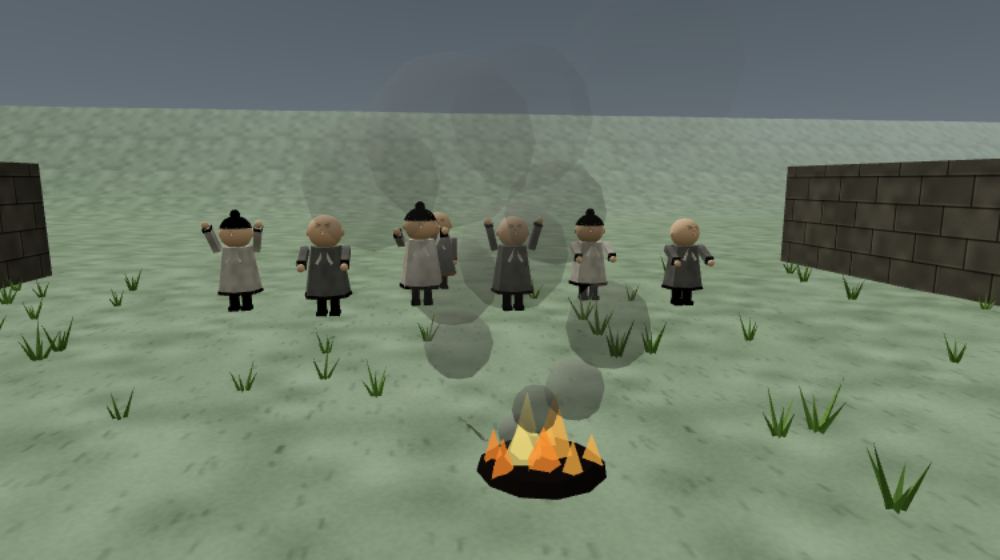
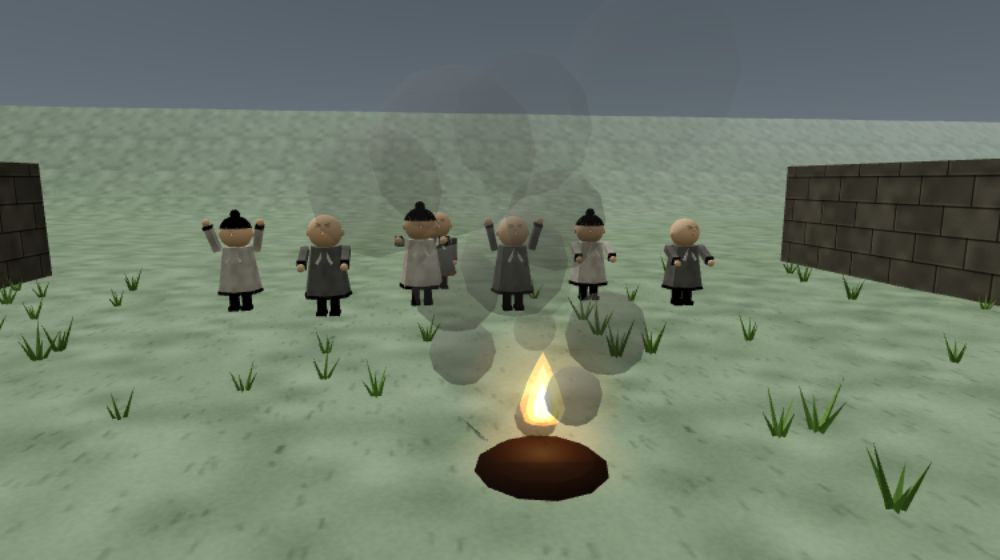
물건 들기 자연스러운 동작(D-18, 모든 장 공통): core/people.js setCarry(두 팔로 안기·굽힌 팔에 얹어 끼기·어깨에 메기) — 든 물건이 손에 붙고 팔이 받치며 걸을 때 물건과 함께 살짝 흔들림, 내려놓으면 팔이 돌아옴. 3장 쇠가죽은 어깨에, 4장 노비 문서는 팔에, 놀이 건네받기 꾸러미는 두 팔로, 나누기 놀이는 머리 위 글을 두고 손에 종이. 4장 충주성 사진을 공용 불로 다시 찍음
Claude-Session: https://claude.ai/code/session_014LB5kAoBxkJ3uzw5BHNRPe

diff --git a/tests/carry.test.js b/tests/carry.test.js
@@ -1,0 +1,94 @@
+// D-18: 물건을 들고 다닐 때 자연스러운 동작(모든 장 공통). 든 물건은 손 가까이에 붙고, 팔이 받치는 자세가 되며,
+// 걸을 때 팔을 크게 흔들지 않고 물건과 함께 살짝 흔들린다. 내려놓으면 팔이 원래대로.
+import * as THREE from 'three';
+import { test, eq, ok } from './harness.js';
+import { makePerson, setCarry, animateWalk } from '../core/people.js';
+import { LOOKS } from '../content/characters.js';
+import { touchSetup } from './bot.js';
+
+const box = () => new THREE.Mesh(new THREE.BoxGeometry(0.5, 0.2, 0.4), new THREE.MeshBasicMaterial());
+const handsNear = (p, obj) => {
+  p.updateMatrixWorld(true);
+  const o = new THREE.Vector3(); obj.getWorldPosition(o);
+  return p.userData.arms.map(a => { const h = new THREE.Vector3(); a.getObjectByName('hand').getWorldPosition(h); return h.distanceTo(o); });
+};
+
+test('carry: 두 팔로 안으면 물건이 두 손 사이에 붙고, 걸어도 팔을 휘젓지 않고 살짝 흔들리며, 내려놓으면 팔이 돌아온다', () => {
+  const p = makePerson(LOOKS.villager, { track: false }), b = box();
+  setCarry(p, b, 'arms');
+  eq(b.parent, p);
+  const u = p.userData;
+  ok(u.arms.every(a => a.rotation.x < -0.6), 'both arms forward');
+  ok(handsNear(p, b).every(d => d < 0.6), `hands at the object ${handsNear(p, b).map(d => d.toFixed(2))}`);
+  const ys = [], diffs = [];
+  for (let i = 0; i < 40; i++) { animateWalk(p, true, 0.05); ys.push(b.position.y); diffs.push(Math.abs(u.arms[0].rotation.x - u.arms[1].rotation.x)); }
+  ok(Math.max(...diffs) < 0.25, 'arms do not swing opposite');
+  const sway = Math.max(...ys) - Math.min(...ys); ok(sway > 0.005 && sway < 0.12, `gentle sway ${sway.toFixed(3)}`);
+  ok(Math.max(...u.legs.map(l => Math.abs(l.rotation.x))) > 0.3, 'legs still walk');
+  setCarry(p, null);
+  ok(!b.parent, 'put down');
+  ok(u.arms.every(a => Math.abs(a.rotation.x) < 0.01 && Math.abs(a.rotation.z) < 0.01), 'arms back');
+});
+
+test('carry: 옆구리에 끼거나 어깨에 메면 그쪽 손이 물건을 잡고, 다른 팔은 걸을 때 흔든다', () => {
+  for (const style of ['side', 'shoulder']) {
+    const p = makePerson(LOOKS.villager, { track: false }), b = box();
+    setCarry(p, b, style);
+    const d = handsNear(p, b);
+    ok(d[1] < 0.6, `${style}: holding hand ${d[1].toFixed(2)}`);
+    const free = [];
+    for (let i = 0; i < 40; i++) { animateWalk(p, true, 0.05); free.push(p.userData.arms[0].rotation.x); }
+    ok(Math.max(...free) - Math.min(...free) > 0.3, `${style}: the other arm swings`);
+  }
+});
+
+test('carry: 크기가 다른 학생(아이)도 물건이 손에 붙는다', () => {
+  const p = makePerson(LOOKS.villager, { track: false }); p.scale.setScalar(0.8);
+  const b = box(); setCarry(p, b, 'arms');
+  ok(handsNear(p, b).every(d => d < 0.5));
+});
+
+test('carry: 고려 4장 노비 문서를 받으면 옆구리에 끼고, 더미에 놓으면 손을 비운다', async () => {
+  const { default: ch4, setupChungju, carryDocuments } = await import('../chapters/ch4/chapter.js');
+  const s = touchSetup({});
+  try {
+    const sc = ch4.buildScene(s.w, s.ctx);
+    setupChungju(s.ctx);
+    carryDocuments(s.ctx);
+    const g1 = s.w.getGoal(); s.w.player.position.set(g1.x, 0, g1.z); s.w.step(0.05, { x: 0, z: 0 });
+    const c = s.w.player.userData.carry;
+    ok(c && c.obj === sc.bundles[0], 'carrying the bundle');
+    ok(handsNear(s.w.player, sc.bundles[0])[1] < 0.7, 'in hand');
+    const g2 = s.w.getGoal(); s.w.player.position.set(g2.x, 0, g2.z); s.w.step(0.05, { x: 0, z: 0 });
+    ok(!s.w.player.userData.carry, 'hands free after placing');
+  } finally { s.done(); }
+});
+
+test('carry: 고려 3장 쇠가죽을 주우면 어깨에 메고 다니다가 둑에서 내려놓는다', async () => {
+  const { default: ch3, collectHides } = await import('../chapters/ch3/chapter.js');
+  const s = touchSetup({});
+  try {
+    const sc = ch3.buildScene(s.w, s.ctx);
+    const done = collectHides(s.ctx);
+    const h = sc.hides[0]; s.w.player.position.set(h.x, 0, h.z); s.w.step(0.05, { x: 0, z: 0 });
+    ok(s.w.player.userData.carry, 'carrying hides after the first one');
+    for (const k of sc.hides) { s.w.player.position.set(k.x, 0, k.z); s.w.step(0.05, { x: 0, z: 0 }); }
+    s.w.player.position.set(sc.dam.x, 0, sc.dam.z); s.w.step(0.05, { x: 0, z: 0 });
+    await done;
+    ok(!s.w.player.userData.carry, 'put down at the dam');
+  } finally { s.done(); }
+});
+
+test('carry: 건네받기(give)로 받은 꾸러미는 두 팔로 안고 다닌다', async () => {
+  const { PLAY } = await import('../chapters/kit/play.js');
+  const s = touchSetup({});
+  try {
+    const arena = { origin: [300, 0], ground: 'earth', bounds: { x0: -20, x1: 20, z0: -20, z1: 20 } };
+    PLAY.drive(s.ctx, { arena, from: [0, 10], seconds: 60, route: [{ x: 0, z: 0, give: true }, { x: 0, z: -10 }] }, false);
+    s.w.player.position.set(300, 0, 0);
+    for (let i = 0; i < 30; i++) s.w.step(1 / 20, { x: 0, z: 0 });
+    const c = s.w.player.userData.carry;
+    ok(c && c.style === 'arms', 'held in both arms');
+    ok(handsNear(s.w.player, c.obj).every(d => d < 0.7), 'at the hands');
+  } finally { s.done(); }
+});

diff --git a/chapters/kit/play.js b/chapters/kit/play.js
@@ -24,7 +24,7 @@ import * as THREE from 'three';
 import { BUILD, addFootprint, taegukgiTexture, addNature } from './town.js';
 import { bakeStatic } from './buildings.js';
 import { terrainField, terrainMesh, hillColorFor } from './terrain.js';
-import { mat, makePerson } from '../../core/people.js';
+import { mat, makePerson, setCarry } from '../../core/people.js';
 import { createTapTargets } from '../../core/minigame.js';
 import { MAP_OUTLINE } from '../../core/screens.js';
 import { LOOKS } from '../../content/characters.js';
@@ -352,7 +352,7 @@ export function drive(ctx, part, easy) {
   show();
   // 건네받기: give가 있는 곳에 닿으면 그곳 사람이 꾸러미를 건네고, 학생이 두 손에 들고 다닌다. hand가 있는 곳에서는 하나씩 건넨다
   let carried = null;
-  s.cleanup(() => { if (carried) world.player.remove(carried); });
+  s.cleanup(() => { if (carried) setCarry(world.player, null); });
   const giveBundle = r => {
     const b = new THREE.Group(); for (let k = 0; k < 5; k++) add(b, box(0.7, 0.07, 0.5), k % 2 ? 0xf2ede0 : 0xe6dfcc, 0, k * 0.075, 0); add(b, box(0.08, 0.42, 0.52), 0x8a6a48, 0, 0.18, 0);
     const from = r.person ? r.person.position.clone().add(new THREE.Vector3(0, 1.3, 0)) : new THREE.Vector3(r.x, 1.3, r.z);
@@ -360,9 +360,9 @@ export function drive(ctx, part, easy) {
     const to = new THREE.Vector3(); let k = 0;
     const off = world.onUpdate(dt => { // 사람 손에서 학생 손으로 날아온다
       k = Math.min(1, k + dt / 0.6);
-      world.player.localToWorld(to.set(0.42, 1.35, 0.4)); g.worldToLocal(to);
+      world.player.localToWorld(to.set(0, 1.22, 0.6)); g.worldToLocal(to);
       b.position.lerpVectors(from, to, k); b.position.y += Math.sin(k * Math.PI) * 0.6;
-      if (k >= 1) { off(); g.remove(b); const ks = world.player.scale.y || 1; b.position.set(0.42 / ks, 1.35 / ks, 0.4 / ks); b.scale.setScalar(1.3 / ks); world.player.add(b); carried = b; } // 옆구리에 끼고(뒤에서도 보이게)
+      if (k >= 1) { off(); g.remove(b); b.scale.setScalar(1.3); setCarry(world.player, b, 'arms'); carried = b; } // 두 팔로 안고 다닌다(D-18, 꾸러미가 몸보다 넓어 뒤에서도 보인다)
     });
     s.cleanup(off);
   };
@@ -510,19 +510,21 @@ export function deliver(ctx, part, easy) {
     return { ...b, disc, pos: s.at(b.x, b.z) };
   });
   let i = 0, held = null;
+  const sheet = new THREE.Mesh(new THREE.BoxGeometry(0.62, 0.04, 0.44), mat(0xf2ede0)); sheet.rotation.x = -0.5; // 손에 든 종이
   const missedCards = new Set();
   const hold = () => {
     if (held) world.player.remove(held);
     const c = part.cards[i];
     held = c ? labelSprite(c.text, { bg: 'rgba(255,250,240,0.97)', border: '#d9a441' }) : null;
     if (held) { held.position.set(0, 3.1 / (world.player.scale.y || 1), 0); held.scale.divideScalar(world.player.scale.x || 1); world.player.add(held); } // 키가 작아도 글은 같은 크기·높이
+    setCarry(world.player, c ? sheet : null, 'arms'); // 머리 위 글은 읽기용으로 두고, 손에는 종이 한 장을 든다(D-18)
     ctx.hud.setCounter(`${part.counter || '가져다 놓은 것'} ${i}/${part.cards.length}`);
     const target = c && bins.find(b => b.id === c.bin);
     ctx.testHooks.walkTo = target ? target.pos : null;
     world.setGoal((easy || missedCards.has(c)) && target ? target.pos : null); // 한 번 틀린 것은 화살표가 맞는 곳을 알려 준다
   };
   hold();
-  s.cleanup(() => { if (held) world.player.remove(held); });
+  s.cleanup(() => { if (held) world.player.remove(held); setCarry(world.player, null); });
   // 놓은 뒤에는 처음 자리로 돌아가 다음 것을 든다
   const home = () => { if (part.from) { const a = s.at(...part.from); place(world, [a.x, a.z], part.face ?? Math.PI); } };
   // 지나가다 밟은 것은 놓지 않는다: 원 안에서 멈춰 잠깐(DWELL초) 서 있어야 놓인다. 원은 서 있는 동안 점점 밝아진다.

diff --git a/core/people.js b/core/people.js
@@ -218,8 +218,41 @@ export function gaitPose(person, ph, k = 1) {
   const k0 = u.legs[0].userData.knee, k1 = u.legs[1].userData.knee;
   if (k0) k0.rotation.x = (0.1 + Math.max(0, -c) * 1.1) * k;
   if (k1) k1.rotation.x = (0.1 + Math.max(0, c) * 1.1) * k;
-  if (u.arms) { u.arms[0].rotation.x = -s * 0.65; u.arms[1].rotation.x = s * 0.65; }
+  if (u.carry) carryPose(person, ph, k); // 물건을 들었으면 팔은 물건을 받치고, 물건과 함께 살짝 흔들린다(D-18)
+  else if (u.arms) { u.arms[0].rotation.x = -s * 0.65; u.arms[1].rotation.x = s * 0.65; }
   return Math.abs(c) * 0.08 * k;
+}
+
+// 물건 들기(D-18, 모든 장 공통): 든 물건을 몸에 붙이고 팔이 받치는 자세가 된다. style:
+//   'arms'(두 팔로 가슴 앞에 안기: 꾸러미·판) · 'side'(굽힌 오른팔 위에 얹어 옆구리에 끼기: 두루마리) · 'shoulder'(오른손으로 어깨에 멘 것을 잡기: 쇠가죽 묶음)
+// at: 물건 자리(몸 기준), arms: [왼팔, 오른팔]의 [앞뒤, 안팎] 각도(null이면 걸을 때 흔드는 팔)
+const CARRY = {
+  arms: { at: [0, 1.22, 0.6], arms: [[-1.0, 0.33], [-1.0, -0.33]] },
+  side: { at: [0.56, 1.42, 0.45], arms: [null, [-1.1, 0.05]] },
+  shoulder: { at: [0.48, 2.0, -0.08], arms: [null, [-2.9, -0.15]] },
+};
+export function carryPose(person, ph = 0, k = 0) {
+  const u = person.userData, c = u.carry; if (!c || !u.arms) return;
+  const P = CARRY[c.style] || CARRY.arms, sway = Math.sin(ph * 2) * 0.04 * k;
+  P.arms.forEach((a, i) => {
+    if (a) u.arms[i].rotation.set(a[0] + sway, 0, a[1]);
+    else u.arms[i].rotation.set(-Math.sin(ph) * k * 0.65 * (i ? -1 : 1), 0, 0); // 빈 팔은 걸음에 맞춰 흔든다
+  });
+  c.obj.position.set(P.at[0], P.at[1] + Math.abs(Math.cos(ph)) * 0.035 * k, P.at[2]);
+  c.obj.rotation.z = c.rz + Math.sin(ph) * 0.05 * k;
+}
+// 물건을 든다(obj) / 내려놓는다(null). 들던 것이 있으면 먼저 내려놓는다. 물건은 사람의 자식이 되어 함께 움직인다
+export function setCarry(person, obj, style = 'arms') {
+  const u = person.userData, prev = u.carry;
+  if (prev && prev.obj !== obj && prev.obj.parent === person) person.remove(prev.obj);
+  if (!obj) {
+    u.carry = null;
+    if (u.arms) for (const a of u.arms) a.rotation.set(0, 0, 0);
+    return;
+  }
+  person.add(obj);
+  u.carry = { obj, style, rz: prev && prev.obj === obj ? prev.rz : obj.rotation.z };
+  carryPose(person);
 }
 // 네 다리 짐승(말)의 걸음: 대각선 짝(앞왼·뒤오른 / 앞오른·뒤왼)이 번갈아 나가고 머리를 걸음에 맞춰 끄덕인다. 들썩이는 높이를 돌려준다
 export function horseGait(horse, ph) {

diff --git a/chapters/ch3/chapter.js b/chapters/ch3/chapter.js
@@ -7,6 +7,8 @@ import { roam } from '../../core/flow.js';
 import { showHowTo, runWithRetries } from '../../core/minigame.js';
 import { enterThroughGate } from '../kit/gate.js';
 import { labelSprite } from '../kit/play.js';
+import { setCarry, mat } from '../../core/people.js';
+import * as THREE from 'three';
 import script from './script.js';
 
 const EXPLORE_BOUNDS = { x0: -28, x1: 28, z0: -3.5, z1: 14 };
@@ -73,9 +75,16 @@ export function introWalk(ctx) {
 }
 
 // 쇠가죽 6개를 주워 둑으로 가져간다. 실패는 없다. 그동안 강감찬은 둑 옆으로 걸어가 기다린다.
-function collectHides(ctx) {
+// 주운 쇠가죽은 접어서 어깨에 메고 다닌다(D-18): 한 장 주울 때마다 묶음이 두툼해진다
+function hideBundle() {
+  const g = new THREE.Group(); g.name = 'hideBundle';
+  for (let k = 0; k < 6; k++) { const m = new THREE.Mesh(new THREE.BoxGeometry(0.75, 0.07, 0.5), mat([0x8a5a3a, 0x7a4e32, 0x94643f][k % 3])); m.position.y = k * 0.07; m.rotation.y = (k % 2) * 0.25; m.visible = false; m.castShadow = true; g.add(m); }
+  return g;
+}
+export function collectHides(ctx) {
   const { world, hud, audio } = ctx;
   const gc = world.npcs.get('gangamchan'), m = gc.mesh.position, post = scene.bankPath[0];
+  const bundle = hideBundle();
   return new Promise(resolve => {
     let carrying = false, done = false;
     const off = world.onUpdate(dt => {
@@ -88,7 +97,12 @@ function collectHides(ctx) {
         for (const h of scene.hides) {
           if (h.taken) continue;
           const d = Math.hypot(p.x - h.x, p.z - h.z);
-          if (d < 1.4) { h.taken = true; h.mesh.visible = false; audio.play('tap'); continue; }
+          if (d < 1.4) {
+            h.taken = true; h.mesh.visible = false; audio.play('tap');
+            bundle.children[scene.hides.filter(x => x.taken).length - 1].visible = true;
+            if (world.player.userData.carry?.obj !== bundle) setCarry(world.player, bundle, 'shoulder');
+            continue;
+          }
           left += 1;
           if (d < nd) { nd = d; nearest = h; }
         }
@@ -97,6 +111,7 @@ function collectHides(ctx) {
         else { carrying = true; setStep(ctx, 3); }
       } else if (Math.hypot(p.x - scene.dam.x, p.z - scene.dam.z) < scene.dam.r) {
         done = true; off(); hud.setCounter(null); world.setGoal(null);
+        setCarry(world.player, null); // 둑에 내려놓는다
         world.moveNpc('gangamchan', post[0], post[1], Math.atan2(p.x - post[0], p.z - post[1]));
         scene.ring.visible = false; scene.damWall.visible = true; audio.play('correct');
         resolve();

diff --git a/chapters/ch4/chapter.js b/chapters/ch4/chapter.js
@@ -7,6 +7,7 @@ import { showHowTo, runWithRetries, pickOnMap } from '../../core/minigame.js';
 import { enterThroughGate } from '../kit/gate.js';
 import { labelSprite } from '../kit/play.js';
 import { leadWalk } from '../kit/lead.js';
+import { setCarry } from '../../core/people.js';
 import script from './script.js';
 
 let scene = null;
@@ -232,11 +233,11 @@ export function carryDocuments(ctx) {
       const p = world.player.position;
       if (!carried && Math.hypot(p.x - take[0], p.z - take[1]) < 1.4) { // 김윤후가 두루마리를 건넨다
         carried = scene.bundles[n];
-        const ks = world.player.scale.y || 1;
-        world.player.add(carried); carried.position.set(0.42 / ks, 1.25 / ks, 0.35 / ks); carried.scale.setScalar(1.2 / ks); carried.rotation.set(0, 0, 0);
+        carried.scale.setScalar(1.2); carried.rotation.set(0, 0, 0);
+        setCarry(world.player, carried, 'side'); // 두루마리를 옆구리에 끼고 걷는다(D-18)
         audio.play('tap'); show();
       } else if (carried && Math.hypot(p.x - pr.position.x, p.z - pr.position.z) < 1.4) { // 문서 더미에 놓는다
-        world.player.remove(carried); carried.visible = false; carried = null;
+        setCarry(world.player, null); carried.visible = false; carried = null;
         n += 1; scene.pileUp(n); audio.play('correct');
         if (n >= 3) { done = true; off(); tr.visible = pr.visible = false; hud.setCounter(null); world.setGoal(null); resolve(); return; }
         show();

diff --git a/tests/index.html b/tests/index.html
@@ -9,7 +9,7 @@
 <div id="sandbox" style="position:fixed;left:0;top:0;width:800px;height:500px;visibility:hidden"></div>
 <script type="module">
   import { run } from './harness.js';
-  const files = ['smoke', 'save', 'content', 'dialogue', 'input', 'quality', 'world', 'flow', 'screens', 'ch1', 'sw', 'weather', 'minigame', 'ch2', 'ch3', 'faces', 'session2-core', 'ch4', 'ch5', 'ch6', 'classroom', 'speech', 'music', 'graphics', 'courses', 'joseon-core', 'j1', 'j2', 'j3', 'j4', 'j5', 'j6', 'layout', 'kit', 'play', 'feedback', 'goryeo-feedback', 'perf', 'quest', 'stage3-text', 'stage3-gfx'];
+  const files = ['smoke', 'save', 'content', 'dialogue', 'input', 'quality', 'world', 'flow', 'screens', 'ch1', 'sw', 'weather', 'minigame', 'ch2', 'ch3', 'faces', 'session2-core', 'ch4', 'ch5', 'ch6', 'classroom', 'speech', 'music', 'graphics', 'courses', 'joseon-core', 'j1', 'j2', 'j3', 'j4', 'j5', 'j6', 'layout', 'kit', 'play', 'feedback', 'goryeo-feedback', 'carry', 'perf', 'quest', 'stage3-text', 'stage3-gfx'];
   const failed = [];
   for (const f of files) {
     try { await import(`./${f}.test.js`); } catch (e) { failed.push(`FAIL import ${f}: ${e.message}`); }

diff --git a/docs/team/decisions.md b/docs/team/decisions.md
@@ -187,7 +187,7 @@
 - 선생님 결정: "지금까지를 포함하여 앞으로 장을 만들 때 플레이어 또는 npc가 물건을 들거나 가지고 이동할 때 자연스러운 움직임이 되는 연출로 바꿔줘."
 - 할 일: 든 물건이 손·어깨에 붙고 팔이 받치는 자세, 걸을 때 물건과 함께 흔들림, 내려놓으면 원래대로. 공용 함수로 모든 장에.
 - 확인 방법: 사진 1장
-- 상태: 대기 (D-16 뒤 개발 담당)
+- 상태: 확인 대기
 
 ## D-17 (2026-10-27) 고려 5장: 스님이 여는 탐험 + 나무판을 들고 경판 만들기 + 그 경판에 大藏經 새기기
 - 선생님 결정: "모두 중간". ① 탐험: 스님이 이야기를 열고 장인 4명이 "그다음엔…"으로 이어 말함(순서를 어겨도 막지 않음) ② 경판 만들기: 카드 대신 나무판을 들고 빛나는 곳을 차례로 돌며 경판이 단계마다 변함 ③ 大藏經 새기기: 방금 만든 경판 위에 새기고 서가에 놓음. 상시 규칙 모두 적용.
